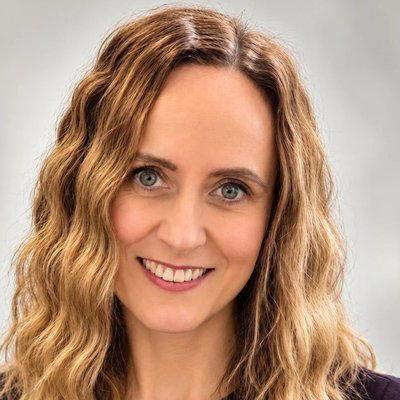
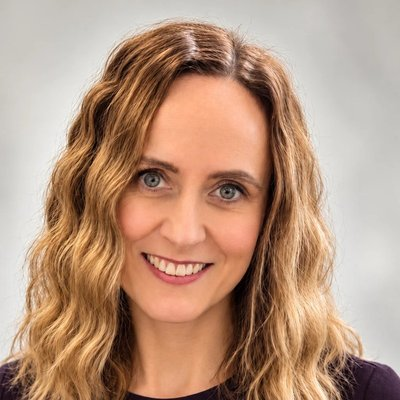
8 тем: господдержка в списке тем, «деньги» в описании, фото Сидякиной мельче
Claude-Session: https://claude.ai/code/session_01GkGnjo3oPyZ9GHAUSqppUu

diff --git a/index.html b/index.html
@@ -449,7 +449,7 @@
         <div class="stat-label">Спикеров</div>
       </div>
       <div class="stat">
-        <div class="stat-num">7</div>
+        <div class="stat-num">8</div>
         <div class="stat-label">Тем</div>
       </div>
       <div class="stat">
@@ -474,6 +474,7 @@
       </div>
       <div class="reveal">
         <ul class="story-quotes">
+          <li><strong>Господдержка и биржа заказов</strong> деньги от государства есть, но непонятно, как их получить.</li>
           <li><strong>Привлечение клиентов</strong> реклама дорожает, а сарафан не работает, что делать.</li>
           <li><strong>Телефония и аналитика</strong> очевидное, но не понятное увеличение продаж.</li>
           <li><strong>Автоматизация и ИИ</strong> современные инструменты автоматизации.</li>
@@ -499,8 +500,8 @@
       </div>
       <div class="adv-card reveal">
         <div class="adv-num">02</div>
-        <h3>4 часа, 7 тем</h3>
-        <p>Клиенты, сотрудники, автоматизация — без воды.</p>
+        <h3>4 часа, 8 тем</h3>
+        <p>Клиенты, сотрудники, автоматизация, деньги — без воды.</p>
       </div>
       <div class="adv-card reveal">
         <div class="adv-num">03</div>
